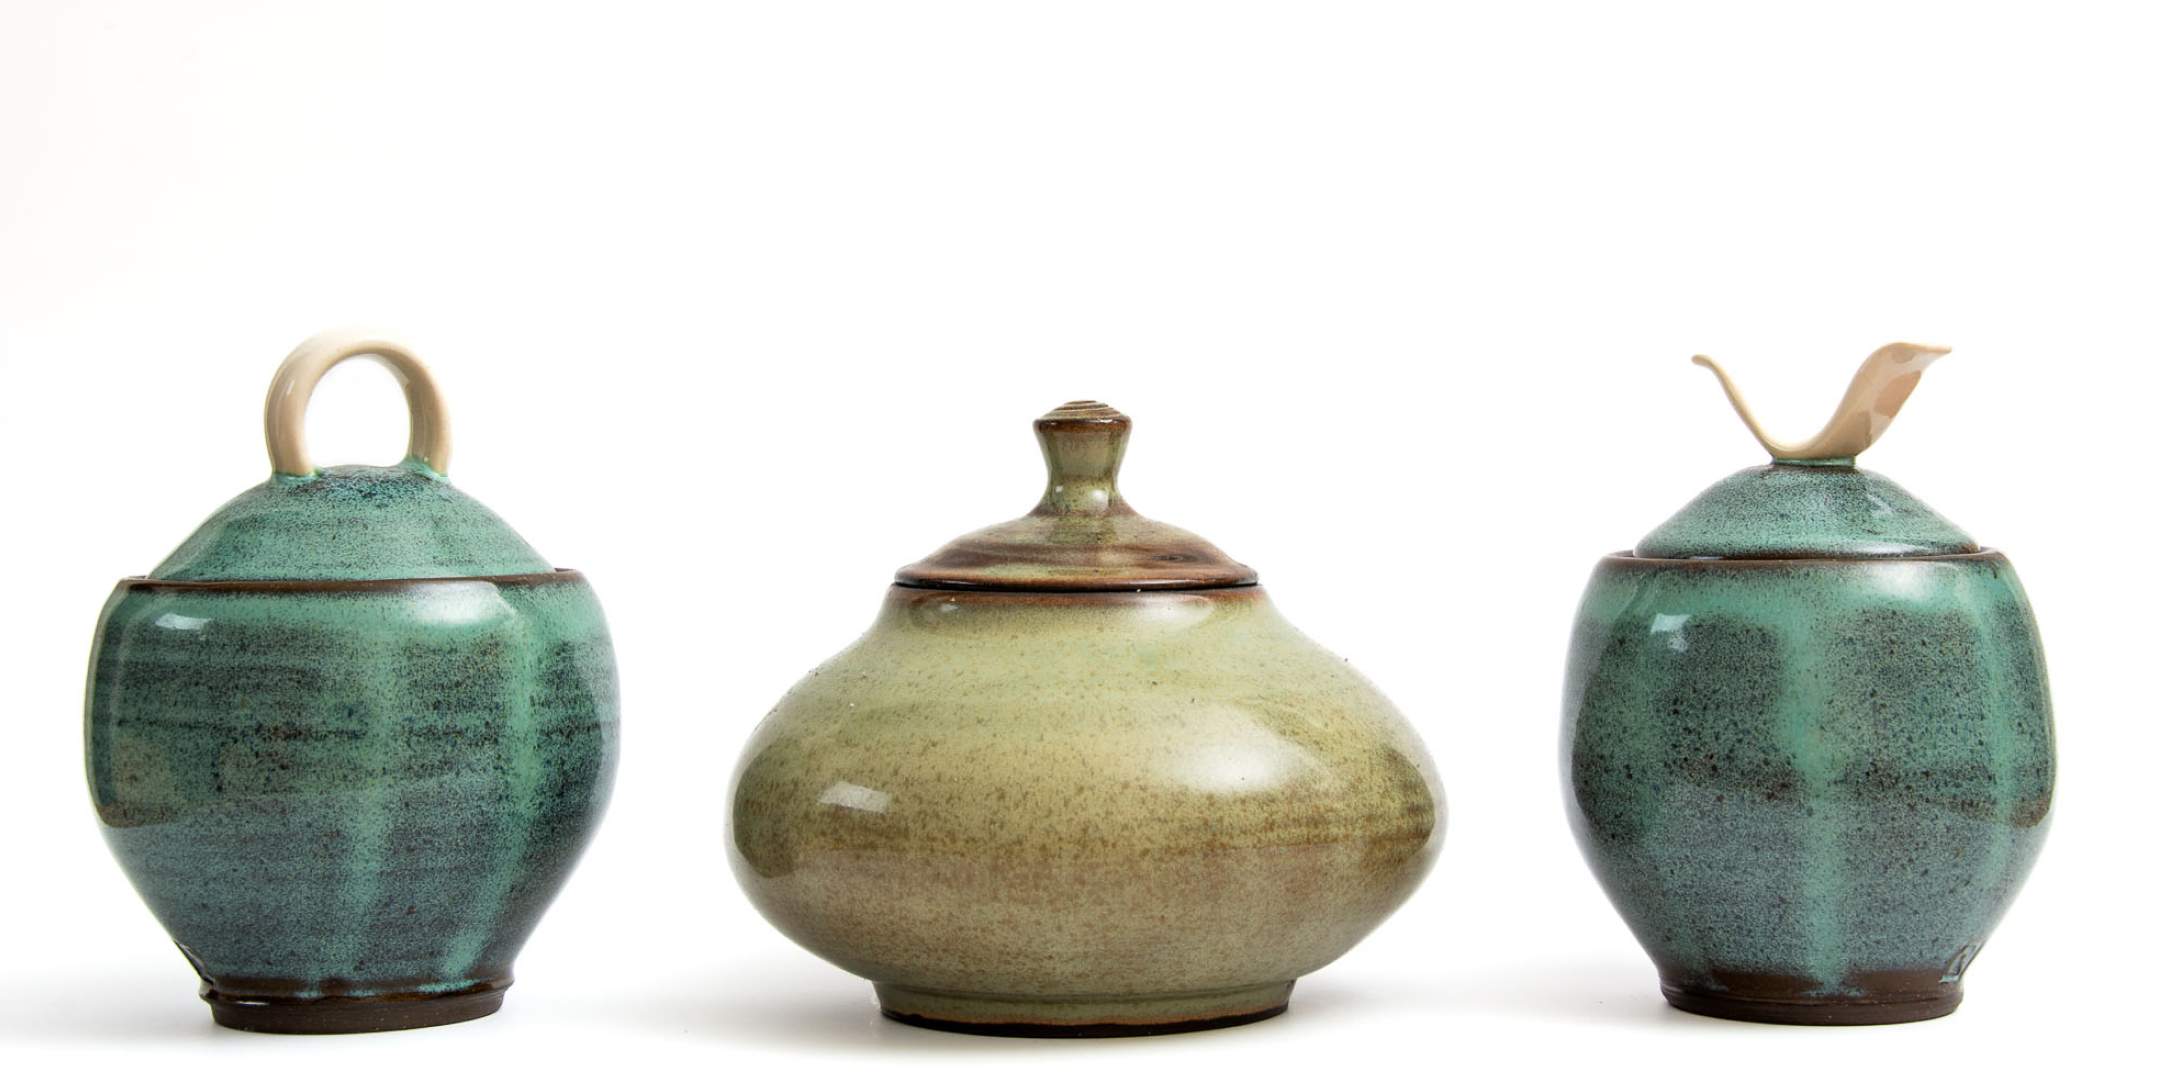
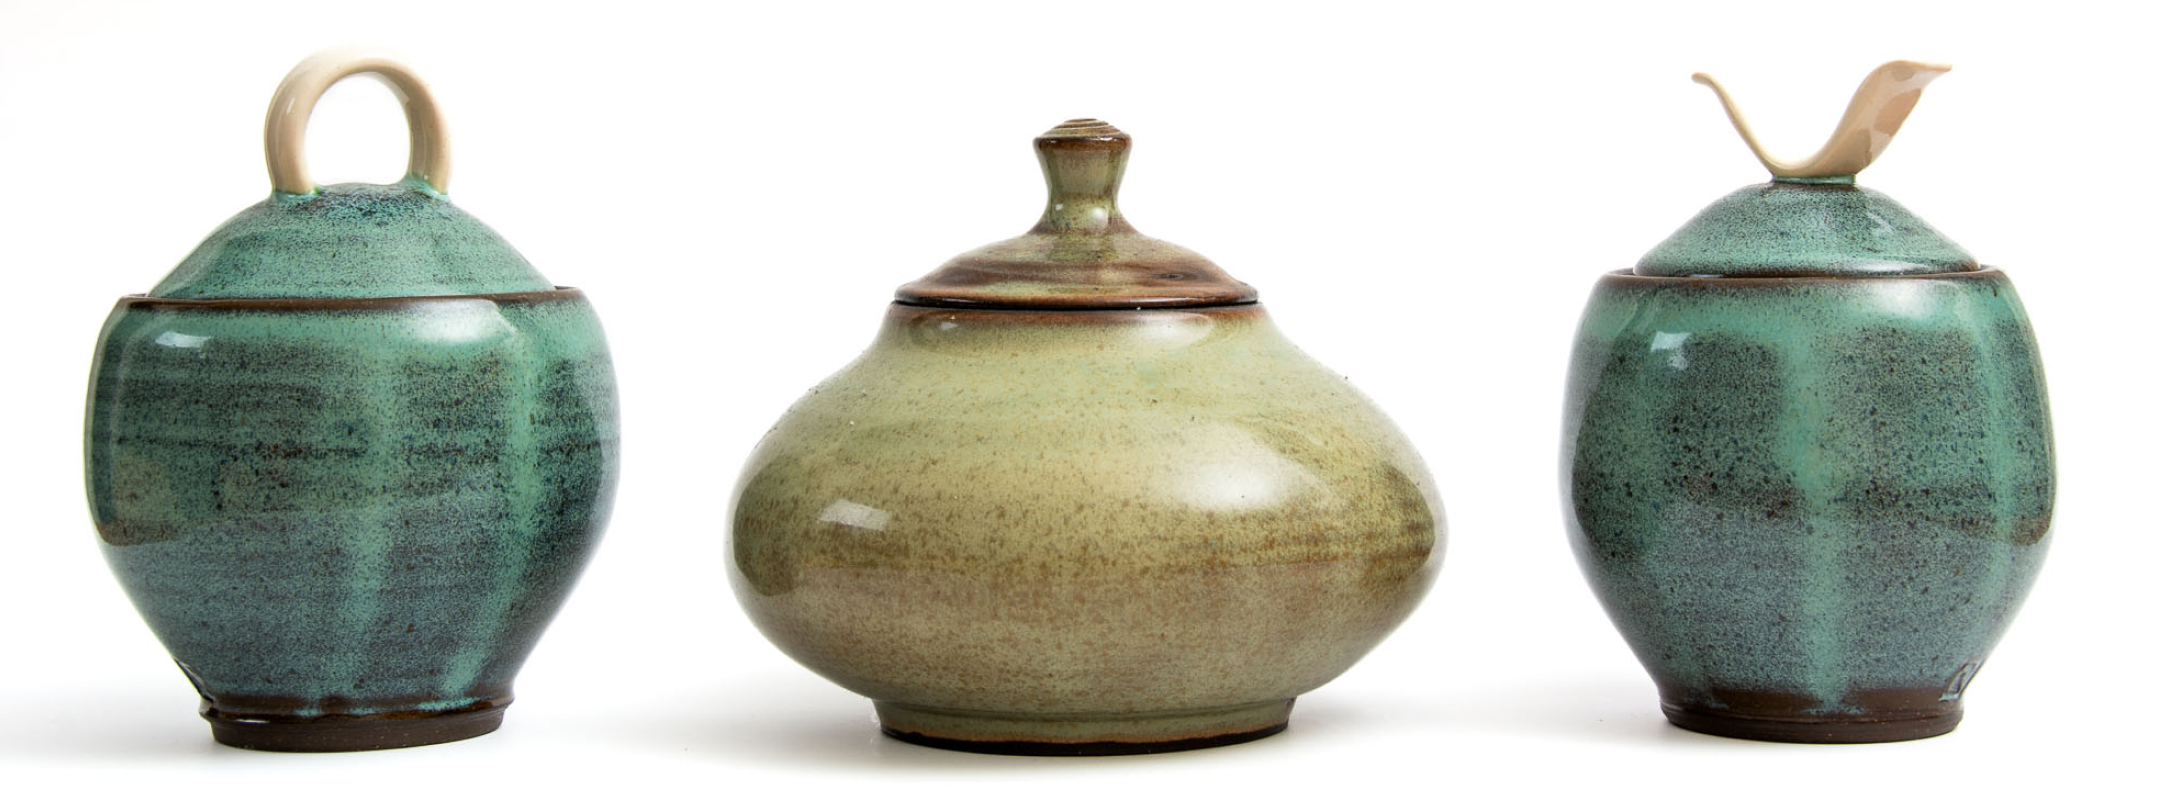
hero image change

diff --git a/assets/css/main.css b/assets/css/main.css
@@ -263,14 +263,6 @@ ul.details {
   animation-duration: 2s;
 }
 
-.hero {
-  background-image: url("/assets/img/hero-jars.png");
-  background-size: cover;
-  position: cover;
-  background-position: bottom center;
-  min-height: 90vh;
-}
-
 .sub-footer {
   background-image: url("/assets/img/Paper.png");
   position: fixed;

diff --git a/index.html b/index.html
@@ -44,6 +44,9 @@
   </script>
   <body>
     <main>
+    <div class="container-fluid">
+      <img src="/assets/img/hero-jars.png" class="img-fluid">
+    </div>
     <div class="container pt-5">
       <div class="row">
         <div class="col">
